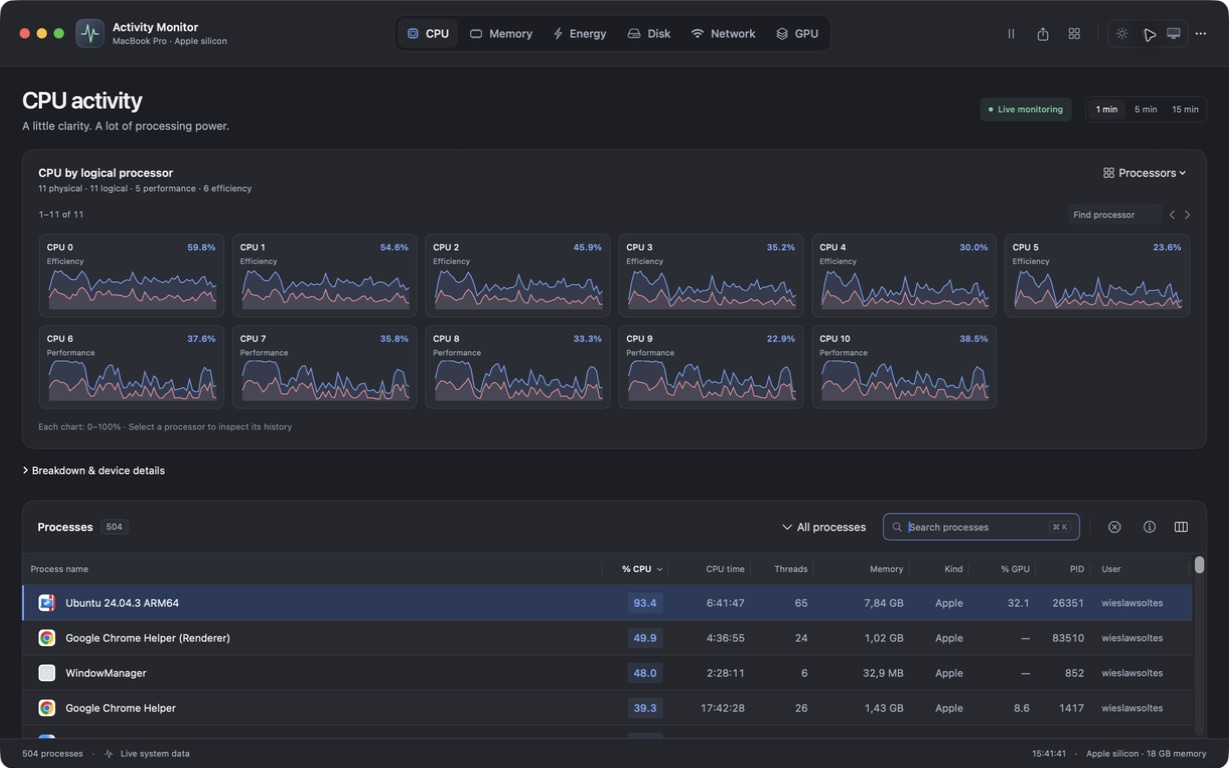
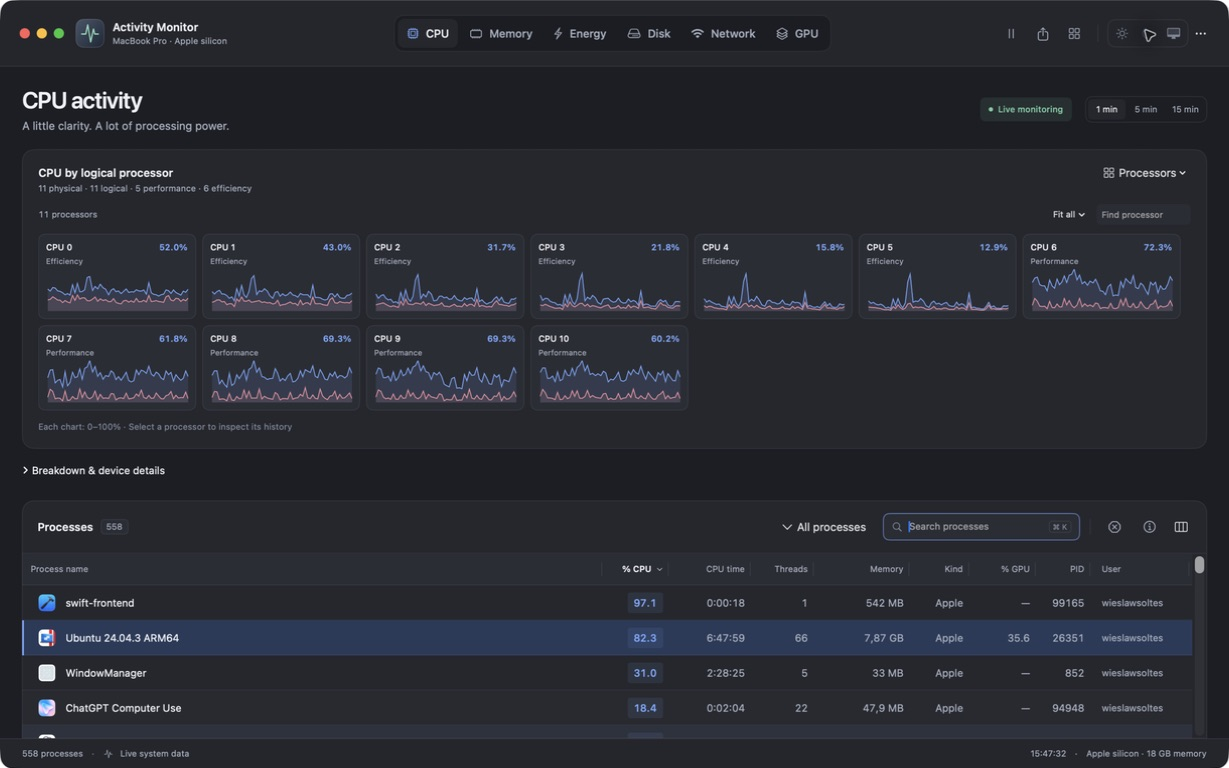
Document adaptive CPU grids and refresh live fit-all screenshots

diff --git a/docs/diagnostics/VALIDATION.md b/docs/diagnostics/VALIDATION.md
@@ -4,8 +4,8 @@ Validated on 10 September 2026, on an Apple silicon Mac with 11 logical processo
 
 ## Automated checks
 
-- `swift test`: 110 tests, zero failures; six opt-in performance tests skipped in the normal run.
-- Release performance run: all 19 measurement budgets and memory gates passed. The 15-minute diagnostic workspace measured 66.48 ms median / 67.96 ms p95; the 2,500-row diagnostic table measured 34.39 ms median / 36.47 ms p95.
+- `swift test`: 111 tests, zero failures; six opt-in performance tests skipped in the normal run.
+- Release performance run: all 20 measurement budgets and memory gates passed. The 15-minute diagnostic workspace measured 72.09 ms median / 76.00 ms p95; the 2,500-row diagnostic table measured 35.40 ms median / 37.37 ms p95.
 - Performance gate tests: six passed. Packaging/notarization failure-path tests: six passed.
 - Universal release build: arm64 and x86_64 compiled successfully.
 - App signature, DMG integrity, ZIP contents, version, Applications link and SHA-256 checksums verified for the local 1.6.0 candidate. It is ad-hoc signed, not notarized or published.
@@ -31,9 +31,10 @@ The universal 1.6.0 local candidate was rebuilt and its DMG/ZIP contents verifie
 ## Individual CPU charts
 
 - Live host topology reports 11 physical/logical processors: five performance and six efficiency cores. Explicit IODeviceTree logical IDs match processor slot IDs; no classification is inferred from order.
-- Six CPU-detail tests cover independent tick baselines, nice time, counter wrap, missing/reappearing cores, thread resets and churn, opt-in/pause behavior, history budgets, live Mach buffer bounds and narrow/wide rendering in both themes.
-- Native checks exercised logical processor selection and inspection, thread pagination, filtering the live VM’s VCPU workers, separate user/system rates, and pause/resume in a process menu-bar pin. One combined chart remains the launch default.
-- Histories are capped at 131,072 points per grid/session. Release performance gates cover appending 4,096 thread histories and rendering twelve charts with fifteen minutes of data (1.77 ms and 41.31 ms median respectively).
+- Seven CPU-detail tests cover independent tick baselines, nice time, counter wrap, missing/reappearing cores, thread resets and churn, opt-in/pause behavior, history budgets, live Mach buffer bounds and narrow/wide rendering in both themes.
+- Native checks exercised logical processor selection and inspection, automatic thread grid fitting, filtering the live VM’s VCPU workers, separate user/system rates, and pause/resume in a process menu-bar pin. One combined chart remains the launch default.
+- Histories are capped at 131,072 points per grid/session. Release performance gates cover appending 4,096 thread histories and rendering twelve and sixty-four charts with fifteen minutes of data (1.87 ms, 30.52 ms and 89.53 ms median respectively).
+- Adaptive layout fixtures fit 1, 11, 16, 64, 67 and 128 charts into representative viewport sizes, enlarge filtered results, and retain a legible scrolling fallback for 4,096 threads. Native validation showed every live VM thread together and all eleven host processors inside the compact system popover. Optional Paged charts retained twelve tiles and working next/previous navigation.
 - The full suite passed, followed by the focused CPU-detail suite and all release performance gates after the final grid layout refinement. The universal 1.6.0 candidate and DMG/ZIP were rebuilt and verified again.
 
 ## Limits

diff --git a/docs/METRICS.md b/docs/METRICS.md
@@ -6,7 +6,7 @@ Process CPU time is converted from Mach absolute ticks to seconds using the mach
 
 ## Individual processors and threads
 
-**One chart** is the default. The CPU overview and main menu-bar popover can switch to **Logical processors**. Each processor has its own 0–100% history; the combined chart retains the full-machine scale described above. Blue is total utilization and pink is its system portion. Click a tile for an interactive history with the same selected time range. Filtering and pages of twelve charts keep large machines manageable.
+**One chart** is the default. The CPU overview and main menu-bar popover can switch to **Logical processors**. Each processor has its own 0–100% history; the combined chart retains the full-machine scale described above. Blue is total utilization and pink is its system portion. Click a tile for an interactive history with the same selected time range. The grid automatically chooses rows, columns and chart sizes from the processor/thread count and available viewport. It shows every chart together when they fit; dense grids simplify labels while preserving full hover and inspection details. At a minimum legible size, larger collections scroll vertically with **Paged charts** available as an alternative. Filtering enlarges the remaining charts.
 
 Logical processor rates use changes in user, nice, system and idle ticks from `host_processor_info(PROCESSOR_CPU_LOAD_INFO)`. Nice time contributes to user time. A first reading establishes a baseline; unavailable readings create gaps. `PROCESSOR_BASIC_INFO` supplies processor slot IDs. Physical/logical counts and performance-level names/counts come from `sysctlbyname`. On supported Apple silicon, explicit `logical-cpu-id` and `cluster-type` properties beneath the IODeviceTree CPU node identify individual performance/efficiency processors. This mapping is not guessed from array order or core counts. Missing or ambiguous driver properties leave a neutral “Logical processor” label. Intel SMT threads are shown as logical processors; no physical-core affinity is inferred.
 

diff --git a/docs/diagnostics/README.md b/docs/diagnostics/README.md
@@ -21,7 +21,7 @@ Tables support column resizing, double-click fitting, drag reordering, sorting, 
 
 ## Individual thread charts
 
-CPU and Energy pages offer **One chart → Individual threads**, including in tool windows and process menu-bar pins. One chart remains the default. The thread grid shows each thread’s name or unique ID, its current CPU usage and history. Filter threads, page through twelve at a time, and select a tile for a larger interactive chart. Blue shows total CPU and pink shows system CPU. Threads can move between processors; these charts do not claim core affinity.
+CPU and Energy pages offer **One chart → Individual threads**, including in tool windows and process menu-bar pins. One chart remains the default. The thread grid shows each thread’s name or unique ID, its current CPU usage and history. The grid fits all threads into the available viewport where legible, resizing as the count or window changes. Dense grids simplify labels; hover or select a tile for full identity, usage and an interactive chart. Filter to enlarge a subset. Very large collections scroll vertically once charts reach a usable minimum size, with **Paged charts** available as an alternative. Blue shows total CPU and pink shows system CPU. Threads can move between processors; these charts do not claim core affinity.
 
 Collection begins when enabled and refreshes at most every two seconds, subject to the main refresh interval. Returning to One chart stops it. Both local and global pause freeze updates. Missing counters remain unavailable; newly observed threads need two readings. Histories are limited to fifteen minutes and a shared memory budget, which shortens retained history for very large thread counts. Exited threads disappear from the active grid. Collected thread histories are included in diagnostic JSON exports.
 

diff --git a/README.md b/README.md
@@ -53,7 +53,7 @@ Keep several process monitors open as independent tool windows, float one above 
 
 ## See every core
 
-Keep one combined CPU chart or switch to individual logical processors. See performance and efficiency core counts where macOS exposes them, compare utilization and inspect each history. Process workspaces also offer individual thread charts.
+Keep one combined CPU chart or switch to individual logical processors. Choose **Fit all charts** to adapt the grid to your window or **Paged charts** for twelve larger charts at a time. See performance and efficiency core counts where macOS exposes them, compare utilization and inspect each history. Process workspaces also offer individual thread charts.
 
 | Logical processors · Light | Logical processors · Dark |
 | :---: | :---: |
